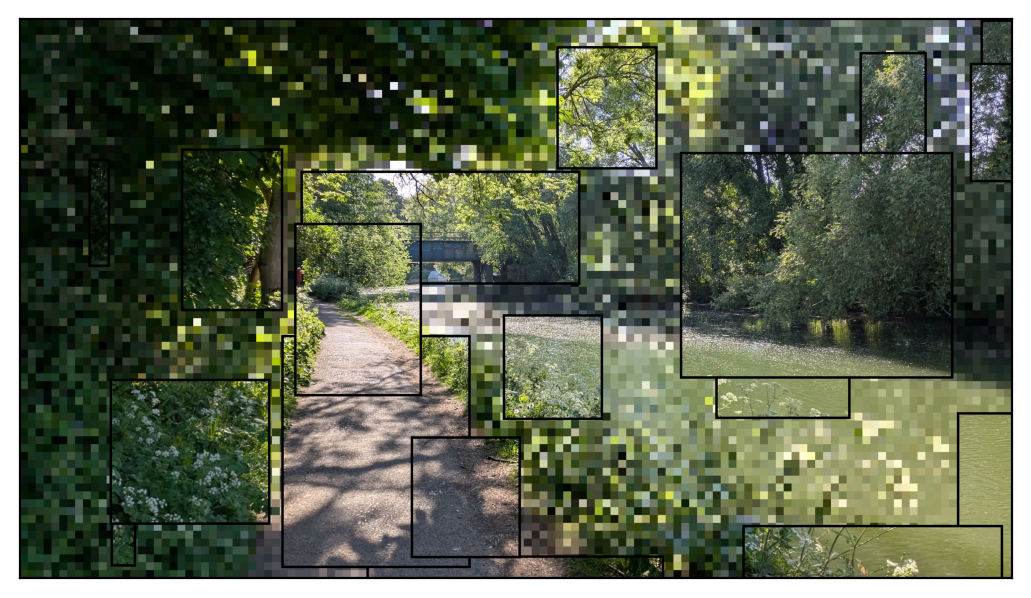
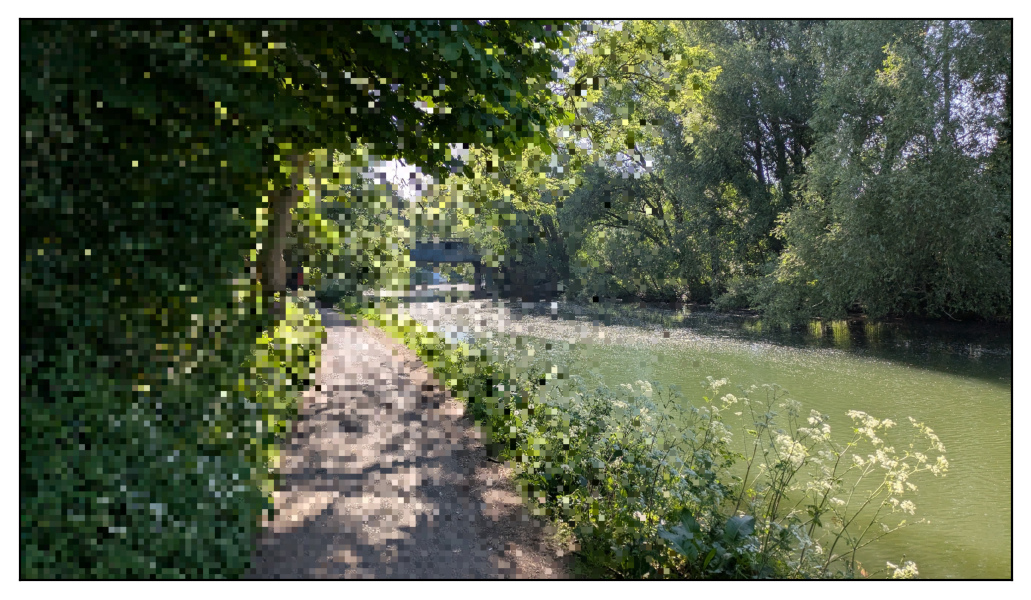
Pivot! A different effect

diff --git a/src/genuary_2026/day04.py b/src/genuary_2026/day04.py
@@ -4,7 +4,7 @@ import matplotlib.pylab as plt
 from PIL import Image
 import numpy as np
 
-SCALE = 16
+SCALE = 12
 NUM_RECTS = 20
 SEED = 1701
 
@@ -20,21 +20,19 @@ lowres = image_array[::SCALE, ::SCALE, :].repeat(SCALE, 0).repeat(SCALE, 1)
 
 # Create random squares of high res
 base, top = lowres, image_array
-# base, top = image_array, lowres
 
-# Apply random rectangle windows
+# Transition between the low and high res options
 rng = np.random.default_rng(seed=SEED)
-rects = rng.random(size=(NUM_RECTS, 4))
-rects[:, 0] *= height
-rects[:, 1] *= width
-rects[:, 2] *= height // 2
-rects[:, 3] *= width // 3
-rects = rects.astype(int)
-for y, x, h, w in rects:
-    my = min(y + h, height)
-    mx = min(x + w, width)
-    base[(y - 5) : (my + 5), (x - 5) : (mx + 5)] = 0
-    base[y:my, x:mx] = top[y:my, x:mx]
+point = np.array([height // 2, width // 2]).astype(int)
+yy, xx = np.meshgrid(np.arange(width), np.arange(height))
+dist = yy.astype(float)
+dist /= dist.max()
+dist += rng.random(dist.shape) * 0.5
+dist = dist[::SCALE, ::SCALE].repeat(SCALE, 0).repeat(SCALE, 1)
+mix = dist > 0.7
+# plt.imshow(mix)
+# plt.show()
+base[mix] = top[mix]
 
 # Show!
 fig, ax = plt.subplots(1, 1)
